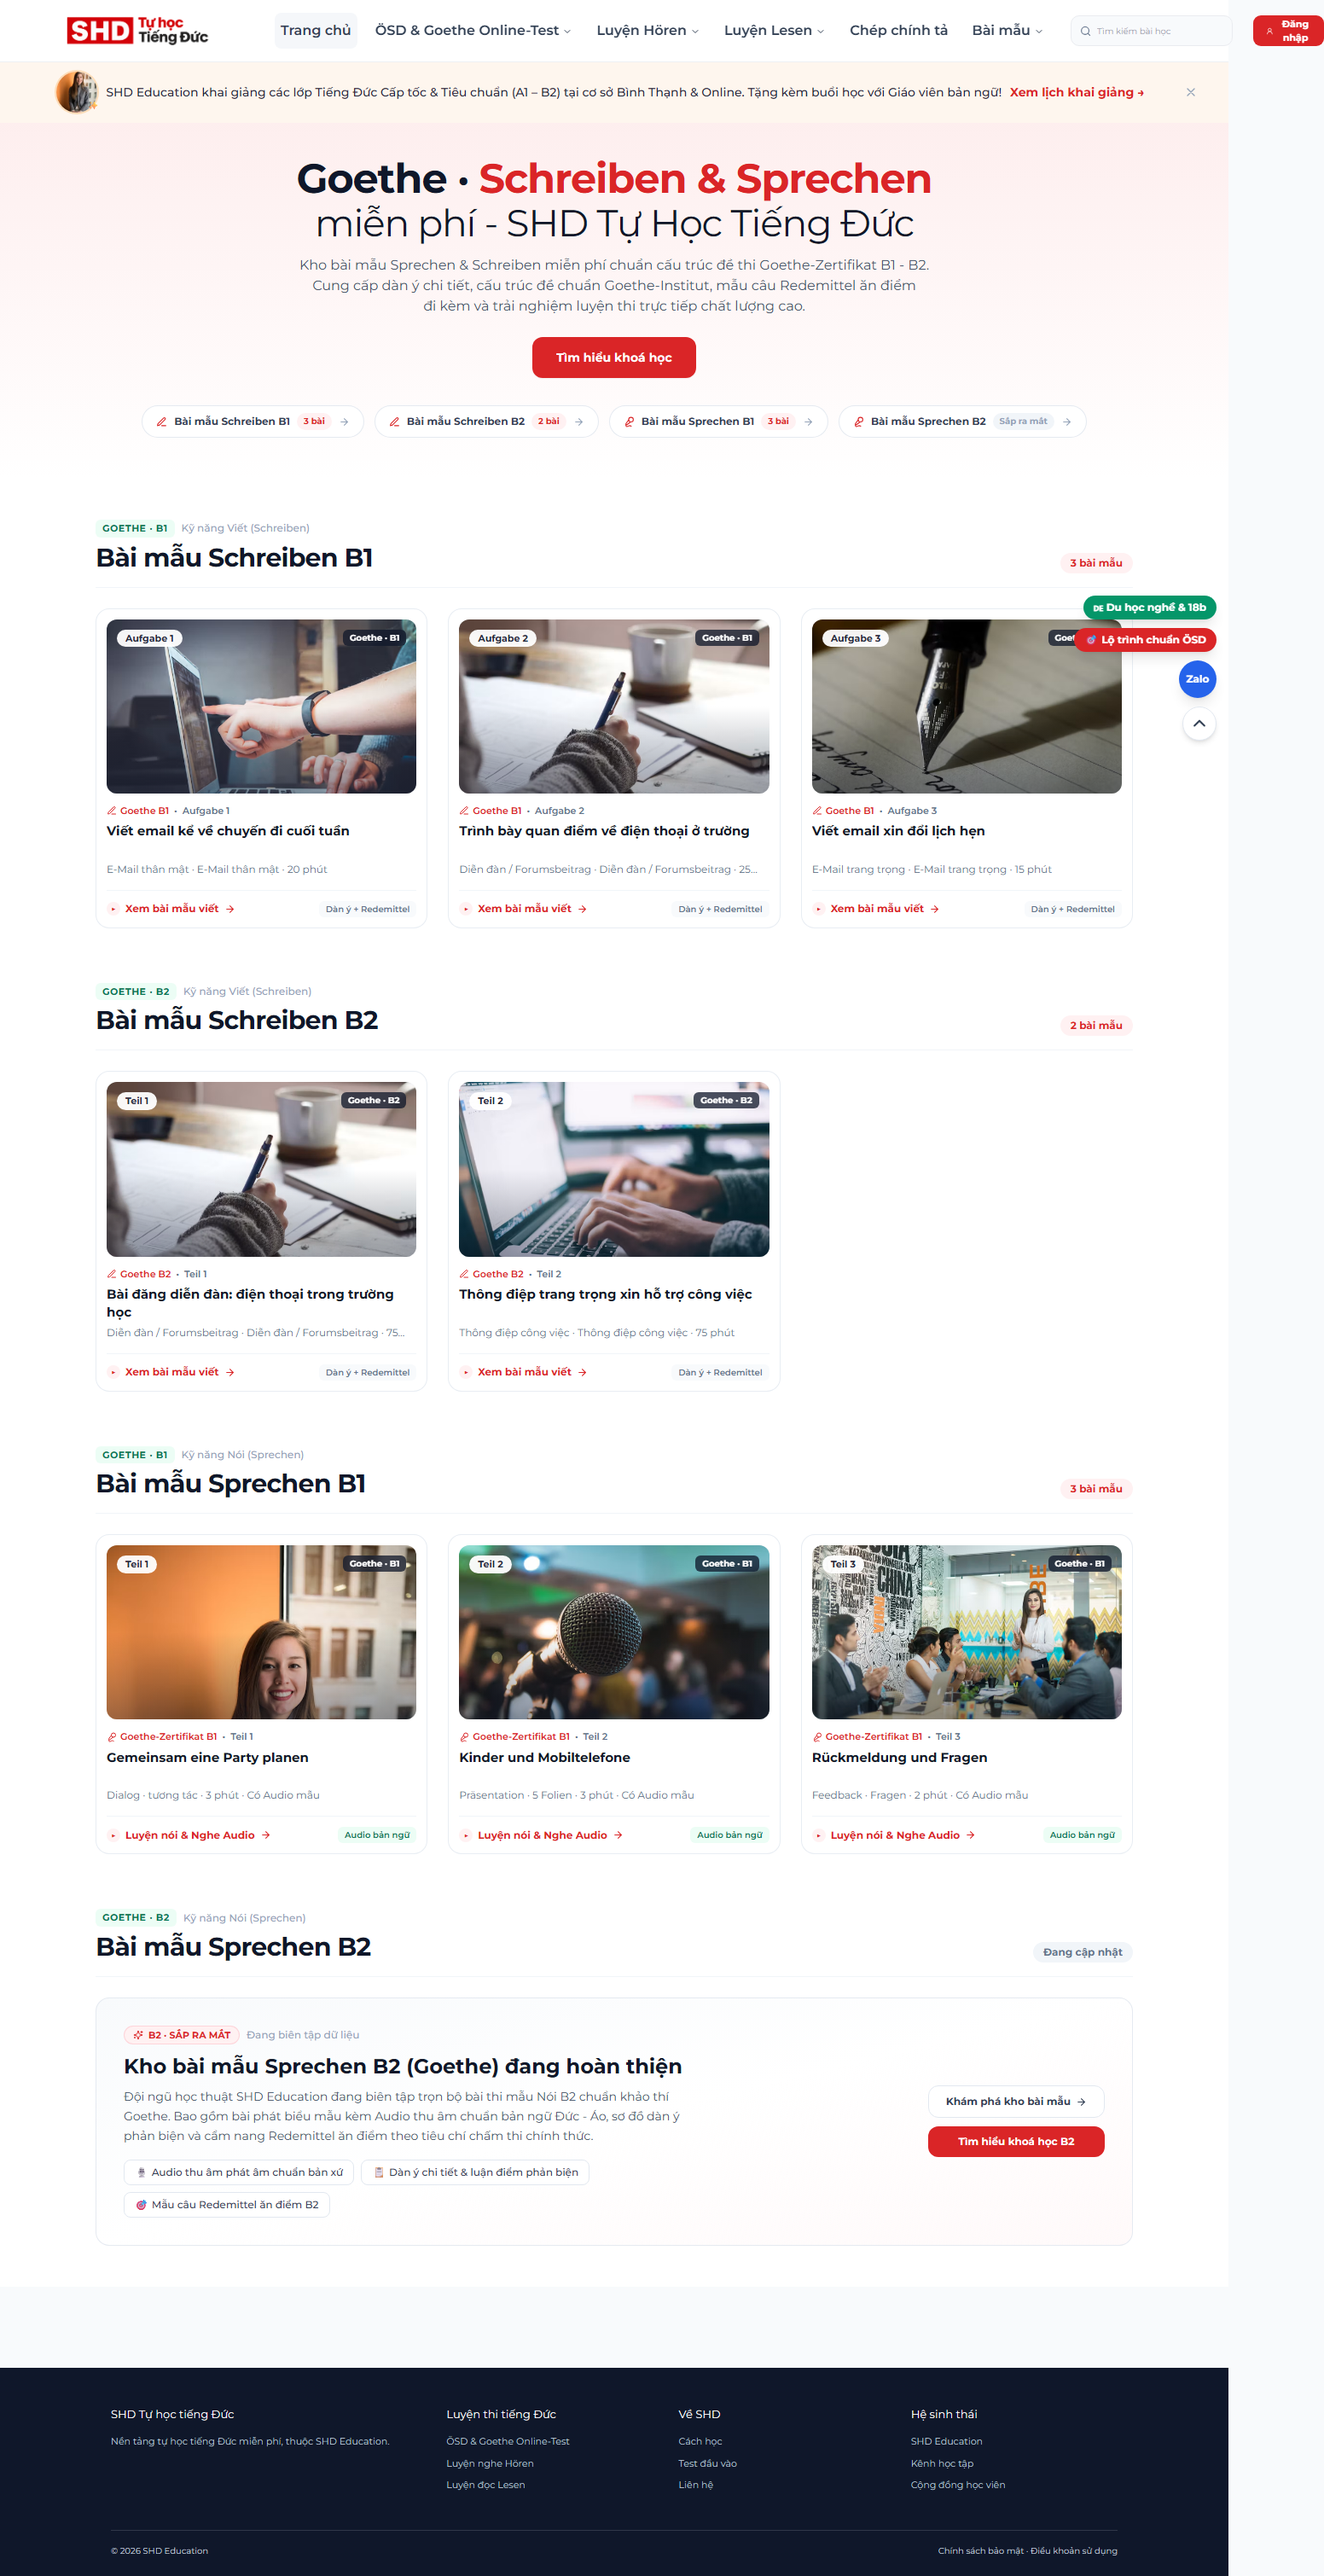
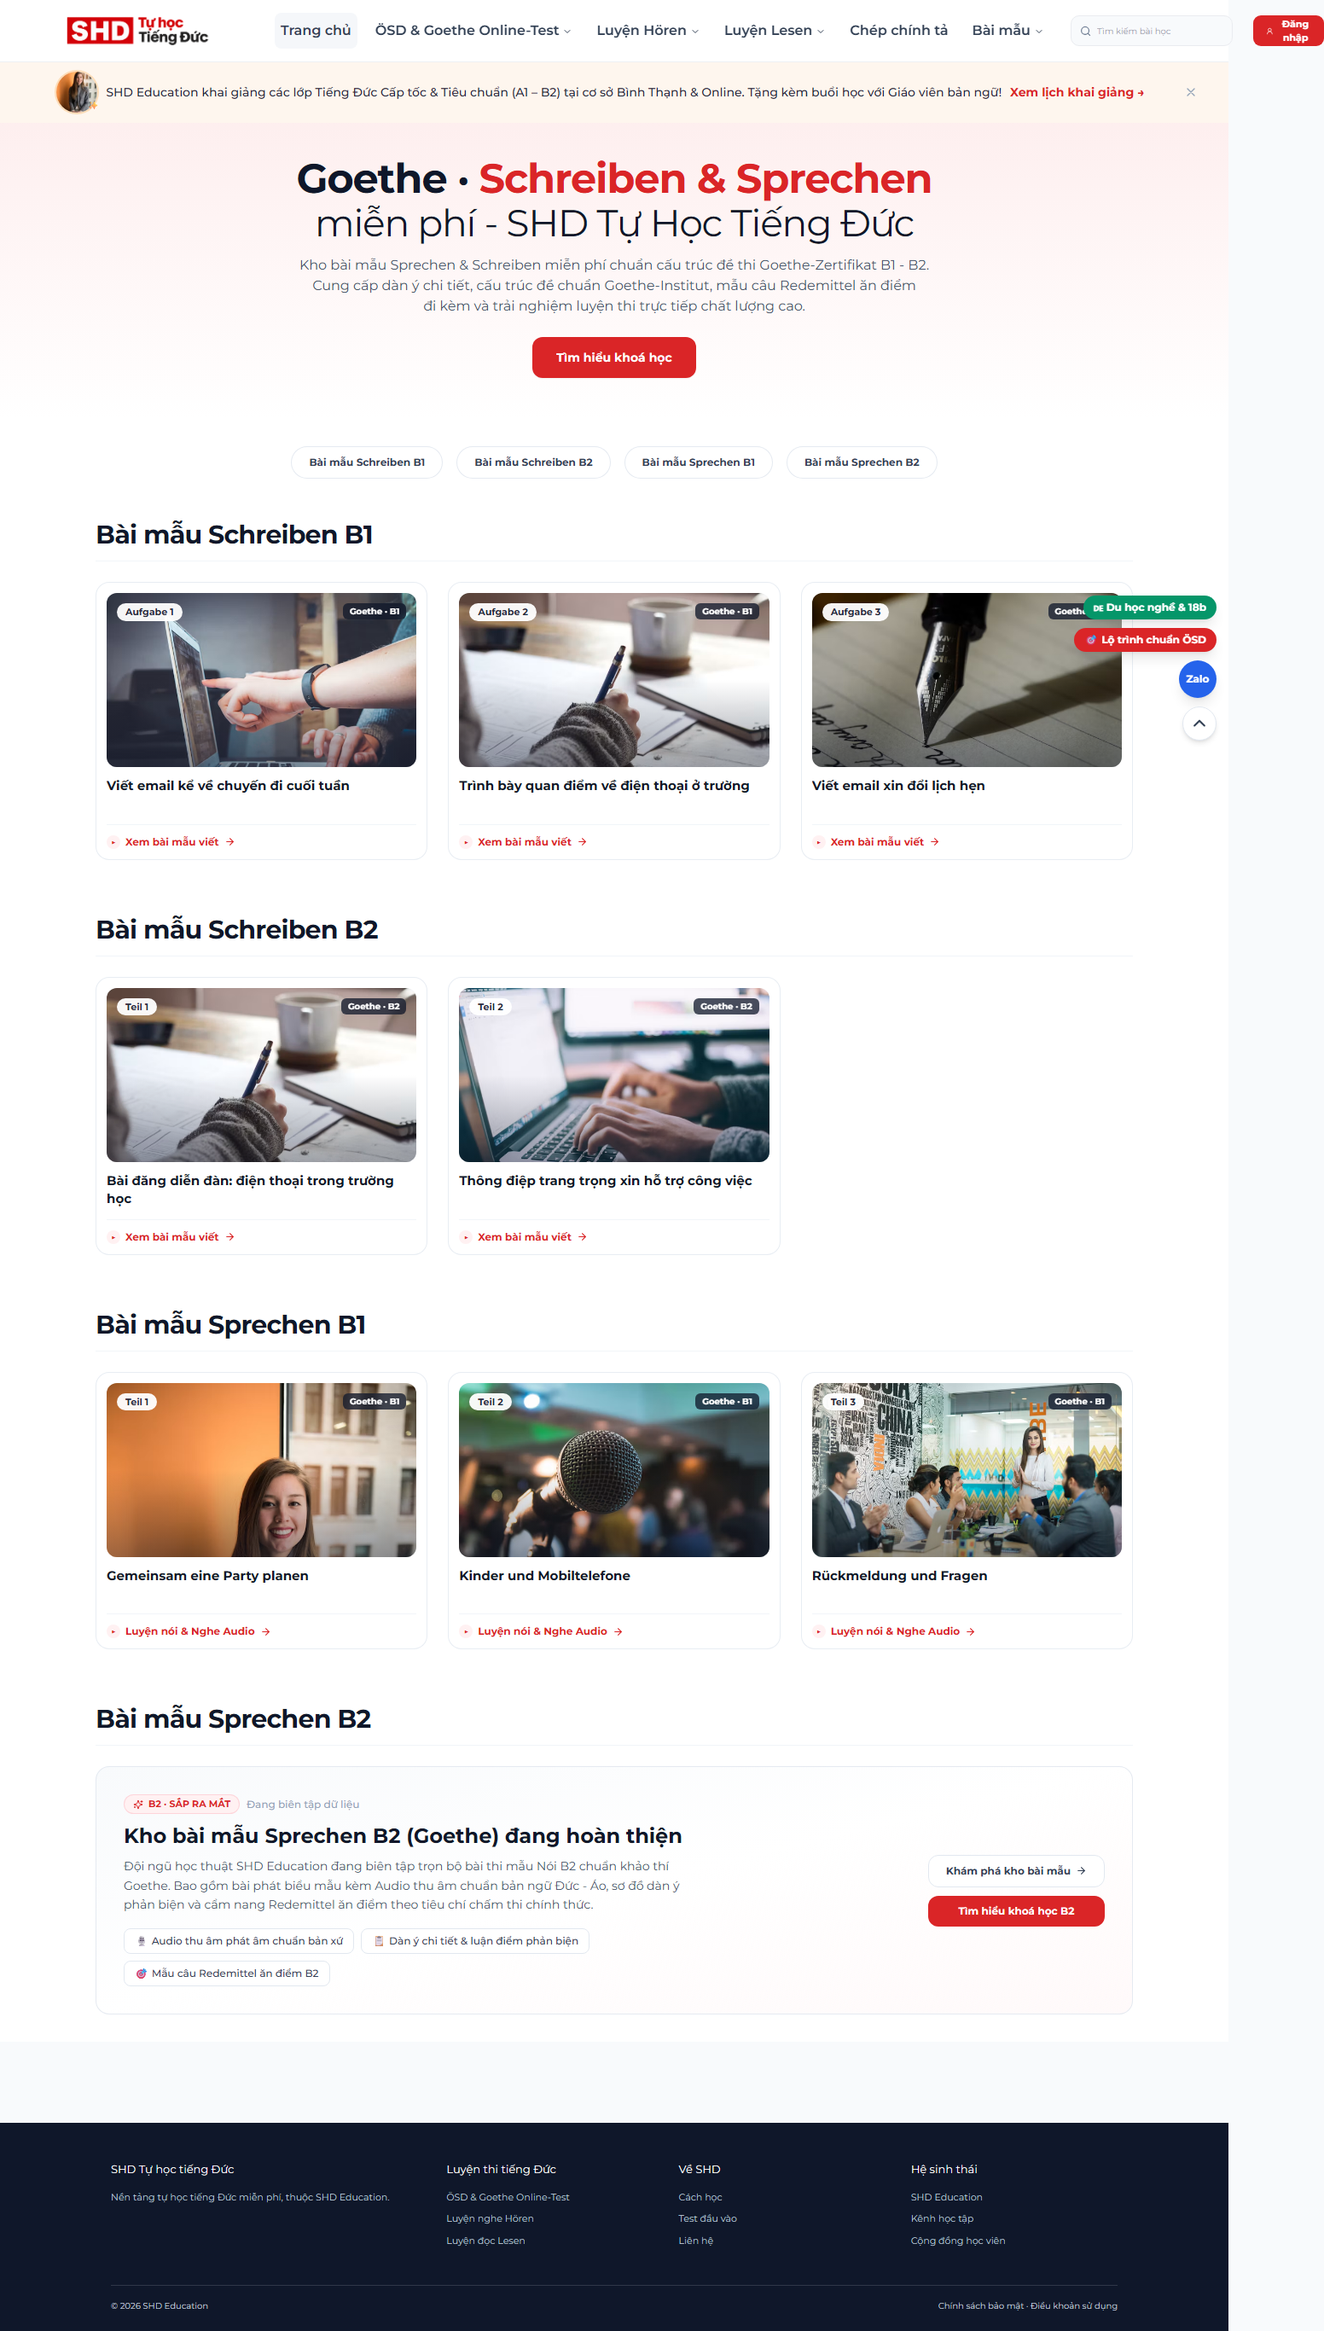
fix(bai-mau): tinh chinh giao dien theo gop y, toi gian the va nut phan loai

diff --git a/apps/web/components/model-answers/SampleProviderSummary.tsx b/apps/web/components/model-answers/SampleProviderSummary.tsx
@@ -1,9 +1,9 @@
 'use client';
 
 import Link from 'next/link';
-import { ArrowRight, Mic2, PenLine, Sparkles } from 'lucide-react';
-import { speakingProviderLabels, speakingTaskTypeLabels, speakingTasks } from '../../data/speaking-fixtures';
-import { writingProviderLabels, writingTaskTypeLabels, writingTasks } from '../../data/writing-fixtures';
+import { ArrowRight, Sparkles } from 'lucide-react';
+import { speakingTasks } from '../../data/speaking-fixtures';
+import { writingTasks } from '../../data/writing-fixtures';
 import { DynamicTopicThumbnail } from '../thumbnails/DynamicTopicThumbnail';
 
 export type Provider = 'goethe' | 'osd' | 'telc';
@@ -25,7 +25,6 @@ const providerLabels: Record<Provider, string> = {
 interface ProviderHeaderConfig {
   name: string;
   fullName: string;
-  accentBadgeClass: string;
   descriptionLine1: string;
   descriptionLine2: string;
   descriptionLine3: string;
@@ -35,7 +34,6 @@ const providerHeaderConfigs: Record<Provider, ProviderHeaderConfig> = {
   osd: {
     name: 'ÖSD',
     fullName: 'ÖSD Zertifikat',
-    accentBadgeClass: 'border-sky-200/80 bg-sky-50 text-sky-700',
     descriptionLine1: 'Kho bài mẫu Sprechen & Schreiben miễn phí chuẩn cấu trúc đề thi ÖSD Zertifikat B1 - B2.',
     descriptionLine2: 'Cung cấp dàn ý chi tiết, cấu trúc đề chuẩn Áo, mẫu câu Redemittel ăn điểm',
     descriptionLine3: 'đi kèm và trải nghiệm luyện thi trực tiếp chất lượng cao.',
@@ -43,7 +41,6 @@ const providerHeaderConfigs: Record<Provider, ProviderHeaderConfig> = {
   goethe: {
     name: 'Goethe',
     fullName: 'Goethe-Zertifikat',
-    accentBadgeClass: 'border-emerald-200/80 bg-emerald-50 text-emerald-700',
     descriptionLine1: 'Kho bài mẫu Sprechen & Schreiben miễn phí chuẩn cấu trúc đề thi Goethe-Zertifikat B1 - B2.',
     descriptionLine2: 'Cung cấp dàn ý chi tiết, cấu trúc đề chuẩn Goethe-Institut, mẫu câu Redemittel ăn điểm',
     descriptionLine3: 'đi kèm và trải nghiệm luyện thi trực tiếp chất lượng cao.',
@@ -51,7 +48,6 @@ const providerHeaderConfigs: Record<Provider, ProviderHeaderConfig> = {
   telc: {
     name: 'telc',
     fullName: 'telc Deutsch',
-    accentBadgeClass: 'border-rose-200/80 bg-rose-50 text-[#da2527]',
     descriptionLine1: 'Kho bài mẫu Sprechen & Schreiben miễn phí chuẩn cấu trúc đề thi telc Deutsch B1 - B2.',
     descriptionLine2: 'Cung cấp dàn ý chi tiết, cấu trúc đề chuẩn telc, mẫu câu Redemittel ăn điểm',
     descriptionLine3: 'đi kèm và trải nghiệm luyện thi trực tiếp chất lượng cao.',
@@ -163,51 +159,27 @@ export function SampleProviderSummary({ provider }: { provider: Provider }) {
             Tìm hiểu khoá học
           </a>
         </div>
-
-        {/* Quick Navigation Anchor Bar */}
-        <nav
-          className="mt-8 flex flex-wrap items-center justify-center gap-2.5 sm:gap-3"
-          aria-label={`Khu vực bài mẫu ${providerLabel}`}
-        >
-          {sections.map((section) => {
-            const isWriting = section.startsWith('schreiben');
-            const level = section.endsWith('b1') ? 'B1' : 'B2';
-            const count = isWriting
-              ? writingTasks.filter((t) => t.level === level && sampleProviderMatches(provider, t.examProvider)).length
-              : speakingTasks.filter((t) => t.level === level && sampleProviderMatches(provider, t.examProvider)).length;
-
-            return (
-              <a
-                key={section}
-                href={`#${section}`}
-                className="group inline-flex items-center gap-2 rounded-full border border-slate-200/90 bg-white px-4 py-2 text-xs font-bold text-slate-700 shadow-xs transition-all hover:border-[#da2527] hover:text-[#da2527] hover:shadow-sm"
-              >
-                {isWriting ? (
-                  <PenLine size={13} className="text-[#da2527] transition-transform group-hover:scale-110" aria-hidden="true" />
-                ) : (
-                  <Mic2 size={13} className="text-[#da2527] transition-transform group-hover:scale-110" aria-hidden="true" />
-                )}
-                <span>{sectionLabels[section]}</span>
-                <span
-                  className={`rounded-full px-2 py-0.5 text-[10px] font-extrabold ${
-                    count > 0 ? 'bg-rose-50 text-[#da2527]' : 'bg-slate-100 text-slate-400'
-                  }`}
-                >
-                  {count > 0 ? `${count} bài` : 'Sắp ra mắt'}
-                </span>
-                <ArrowRight
-                  size={13}
-                  className="text-slate-400 transition-transform group-hover:translate-x-0.5 group-hover:text-[#da2527]"
-                  aria-hidden="true"
-                />
-              </a>
-            );
-          })}
-        </nav>
       </header>
 
-      {/* Main Content Sections */}
-      <div className="mx-auto max-w-7xl px-4 py-12 sm:px-6 lg:px-8">
+      {/* Main Content Area */}
+      <div className="mx-auto max-w-7xl px-4 py-8 sm:px-6 lg:px-8">
+        {/* Quick Navigation Anchor Bar - Kéo xuống ngay trên vạch đỏ phân loại bài, bỏ số lượng và ký tự */}
+        <nav
+          className="mb-12 flex flex-wrap items-center justify-center gap-3 sm:gap-4"
+          aria-label={`Khu vực bài mẫu ${providerLabel}`}
+        >
+          {sections.map((section) => (
+            <a
+              key={section}
+              href={`#${section}`}
+              className="rounded-full border border-slate-200/90 bg-white px-5 py-2.5 text-xs font-bold text-slate-700 shadow-xs transition-all hover:border-[#da2527] hover:text-[#da2527] hover:shadow-sm"
+            >
+              {sectionLabels[section]}
+            </a>
+          ))}
+        </nav>
+
+        {/* Content Sections */}
         <div className="space-y-16">
           {sections.map((section) => {
             const isWriting = section.startsWith('schreiben');
@@ -222,32 +194,11 @@ export function SampleProviderSummary({ provider }: { provider: Provider }) {
 
             return (
               <section id={section} key={section} className="scroll-mt-28">
-                {/* Section Header */}
-                <div className="mb-6 flex flex-col gap-2 border-b border-slate-100 pb-4 sm:flex-row sm:items-end sm:justify-between">
-                  <div>
-                    <div className="flex items-center gap-2">
-                      <span
-                        className={`inline-flex items-center rounded-md px-2 py-0.5 text-[11px] font-extrabold uppercase tracking-wider ${config.accentBadgeClass}`}
-                      >
-                        {providerLabel} · {level}
-                      </span>
-                      <span className="text-xs font-medium text-slate-400">
-                        {isWriting ? 'Kỹ năng Viết (Schreiben)' : 'Kỹ năng Nói (Sprechen)'}
-                      </span>
-                    </div>
-                    <h2 className="mt-1.5 text-2xl font-black tracking-tight text-slate-900 sm:text-3xl">
-                      {sectionLabels[section]}
-                    </h2>
-                  </div>
-                  <div className="flex items-center gap-2">
-                    <span
-                      className={`inline-flex items-center gap-1.5 rounded-full px-3 py-1 text-xs font-bold ${
-                        itemCount > 0 ? 'bg-rose-50 text-[#da2527]' : 'bg-slate-100 text-slate-500'
-                      }`}
-                    >
-                      {itemCount > 0 ? `${itemCount} bài mẫu` : 'Đang cập nhật'}
-                    </span>
-                  </div>
+                {/* Section Header - Tinh gọn: chỉ còn tiêu đề lớn, bỏ eyebrow và số lượng bài */}
+                <div className="mb-6 border-b border-slate-100 pb-3">
+                  <h2 className="text-2xl font-black tracking-tight text-slate-900 sm:text-3xl">
+                    {sectionLabels[section]}
+                  </h2>
                 </div>
 
                 {/* Section Content: Grid or Upcoming */}
@@ -269,30 +220,14 @@ export function SampleProviderSummary({ provider }: { provider: Provider }) {
                               badgeText={`${providerLabel} · ${level}`}
                             />
                             <div className="mt-3 flex flex-1 flex-col justify-between">
-                              <div>
-                                <div className="flex items-center gap-1.5 text-[11px] font-semibold text-slate-500">
-                                  <span className="inline-flex items-center gap-1 text-[#da2527]">
-                                    <PenLine size={12} aria-hidden="true" />
-                                    <span>{writingProviderLabels[task.examProvider]}</span>
-                                  </span>
-                                  <span>•</span>
-                                  <span>{task.partLabel}</span>
-                                </div>
-                                <h3 className="mt-1.5 line-clamp-2 min-h-[2.65rem] text-[15px] font-bold leading-snug text-slate-900 transition-colors group-hover:text-[#da2527]">
-                                  {task.title}
-                                </h3>
-                                <p className="mt-1 line-clamp-1 text-xs text-slate-500">
-                                  {writingTaskTypeLabels[task.taskType]} · {task.writingTarget.textTypeLabel} · {Math.max(1, Math.ceil(task.durationSeconds / 60))} phút
-                                </p>
-                              </div>
-                              <div className="mt-4 flex items-center justify-between border-t border-slate-100 pt-3">
+                              <h3 className="line-clamp-2 min-h-[2.65rem] text-[15px] font-bold leading-snug text-slate-900 transition-colors group-hover:text-[#da2527]">
+                                {task.title}
+                              </h3>
+                              <div className="mt-3 flex items-center border-t border-slate-100 pt-3">
                                 <span className="inline-flex items-center gap-1.5 text-xs font-bold text-[#da2527] transition-transform group-hover:translate-x-1">
                                   <span className="inline-flex h-4 w-4 items-center justify-center rounded-full bg-rose-50 text-[9px]">▶</span>
                                   <span>Xem bài mẫu viết</span>
                                   <ArrowRight size={13} aria-hidden="true" />
-                                </span>
-                                <span className="rounded-md bg-slate-50 px-2 py-0.5 text-[10px] font-semibold text-slate-500">
-                                  Dàn ý + Redemittel
                                 </span>
                               </div>
                             </div>
@@ -313,30 +248,14 @@ export function SampleProviderSummary({ provider }: { provider: Provider }) {
                               badgeText={`${providerLabel} · ${level}`}
                             />
                             <div className="mt-3 flex flex-1 flex-col justify-between">
-                              <div>
-                                <div className="flex items-center gap-1.5 text-[11px] font-semibold text-slate-500">
-                                  <span className="inline-flex items-center gap-1 text-[#da2527]">
-                                    <Mic2 size={12} aria-hidden="true" />
-                                    <span>{speakingProviderLabels[task.examProvider]}</span>
-                                  </span>
-                                  <span>•</span>
-                                  <span>Teil {task.part}</span>
-                                </div>
-                                <h3 className="mt-1.5 line-clamp-2 min-h-[2.65rem] text-[15px] font-bold leading-snug text-slate-900 transition-colors group-hover:text-[#da2527]">
-                                  {task.title}
-                                </h3>
-                                <p className="mt-1 line-clamp-1 text-xs text-slate-500">
-                                  {speakingTaskTypeLabels[task.taskType]} · {Math.max(1, Math.ceil(task.durationSeconds / 60))} phút · Có Audio mẫu
-                                </p>
-                              </div>
-                              <div className="mt-4 flex items-center justify-between border-t border-slate-100 pt-3">
+                              <h3 className="line-clamp-2 min-h-[2.65rem] text-[15px] font-bold leading-snug text-slate-900 transition-colors group-hover:text-[#da2527]">
+                                {task.title}
+                              </h3>
+                              <div className="mt-3 flex items-center border-t border-slate-100 pt-3">
                                 <span className="inline-flex items-center gap-1.5 text-xs font-bold text-[#da2527] transition-transform group-hover:translate-x-1">
                                   <span className="inline-flex h-4 w-4 items-center justify-center rounded-full bg-rose-50 text-[9px]">▶</span>
                                   <span>Luyện nói &amp; Nghe Audio</span>
                                   <ArrowRight size={13} aria-hidden="true" />
-                                </span>
-                                <span className="rounded-md bg-emerald-50 px-2 py-0.5 text-[10px] font-semibold text-emerald-700">
-                                  Audio bản ngữ
                                 </span>
                               </div>
                             </div>
